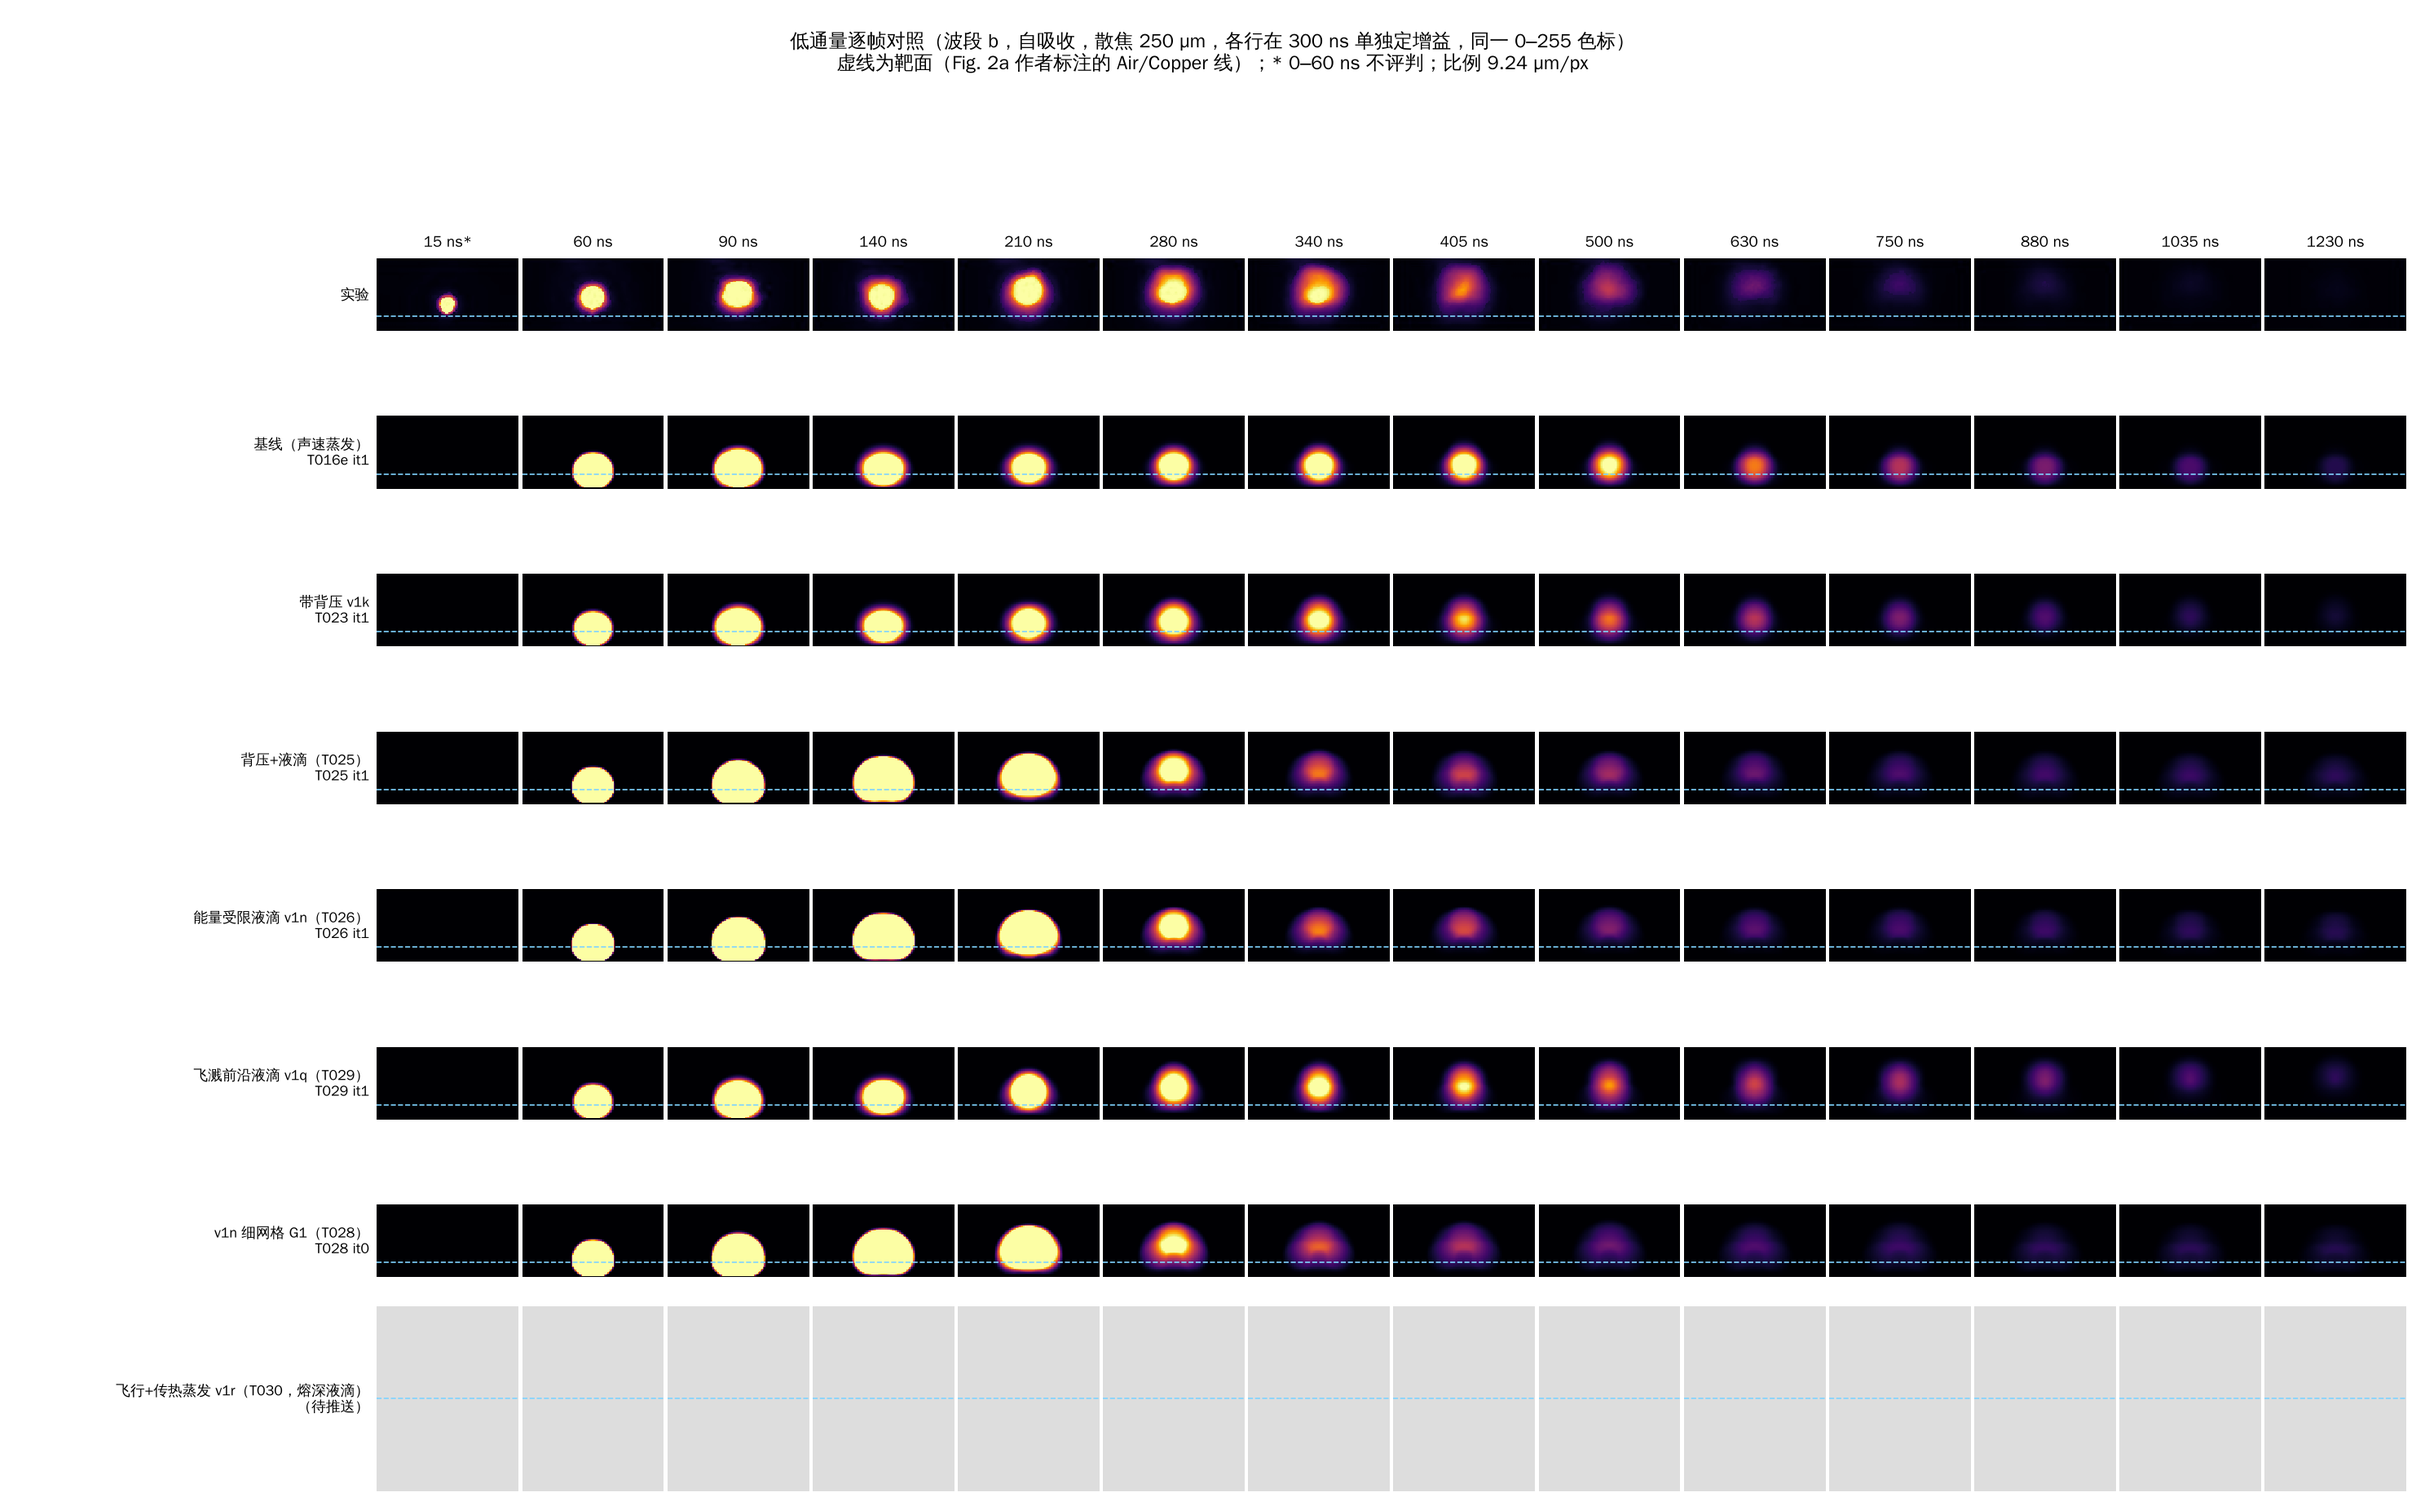
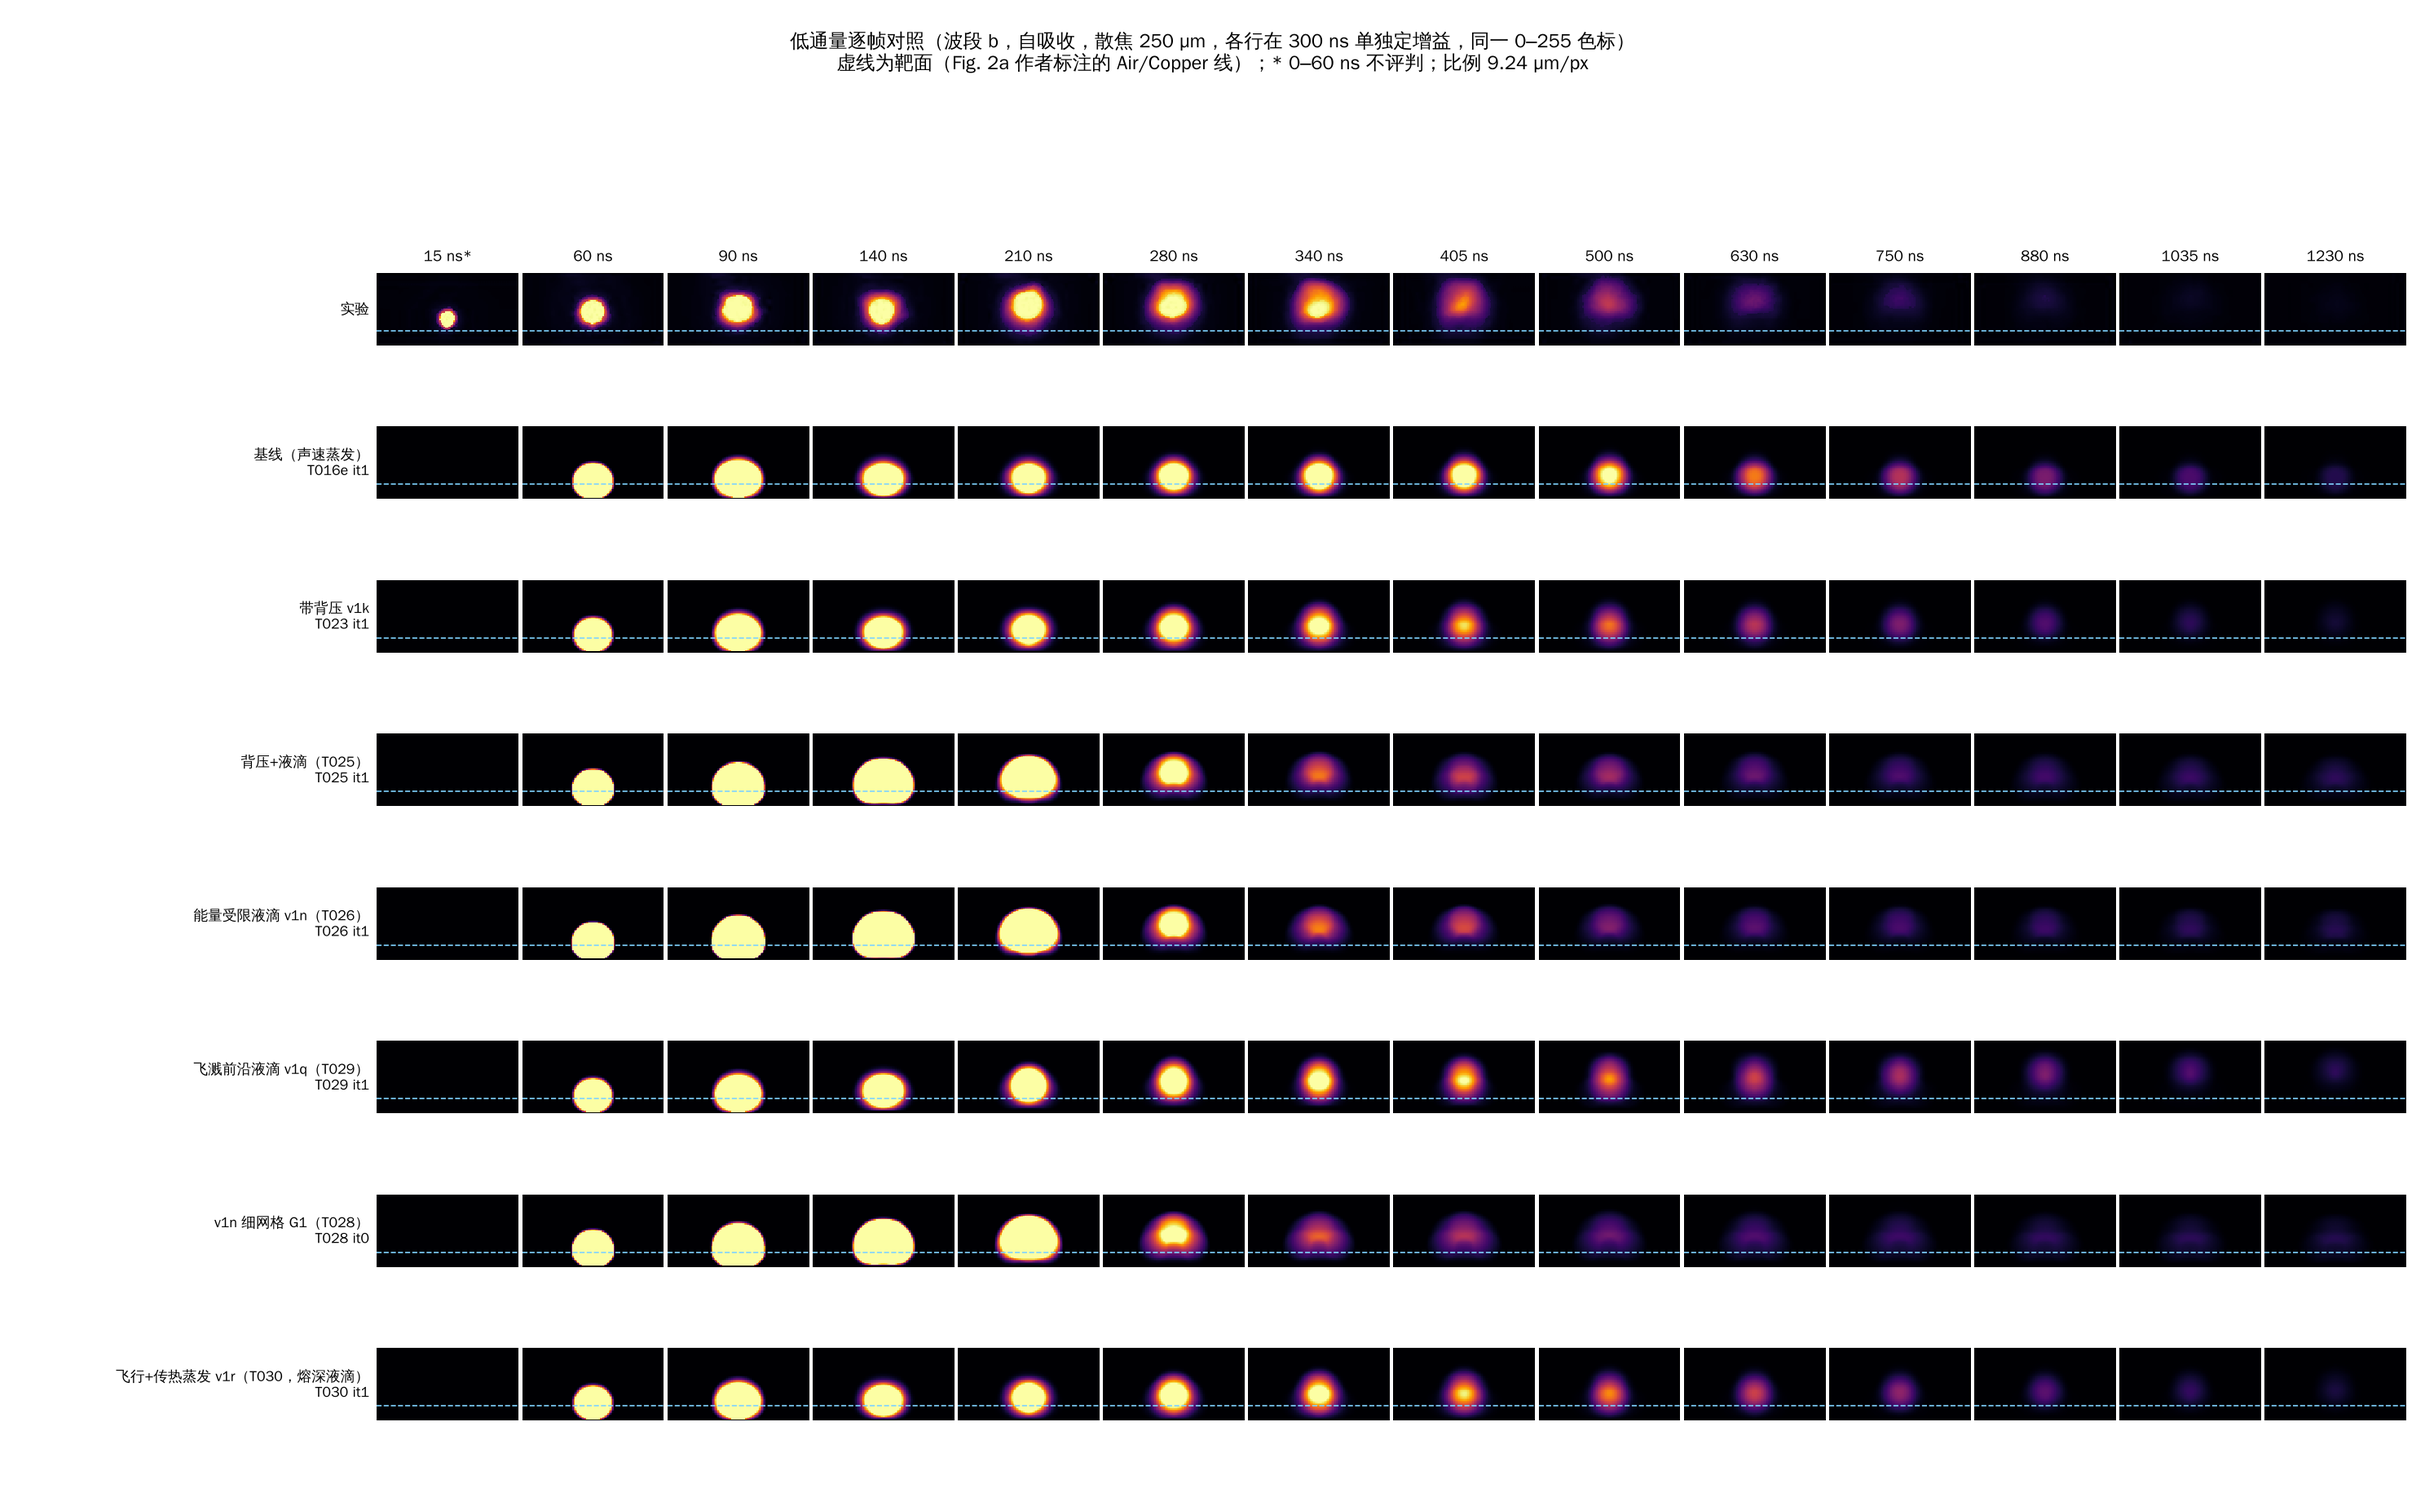
T030 low RP imaging reading, low figures with v1r row; T031 two productions
Claude-Session: https://claude.ai/code/session_01FS7WDGPKzwdDyXZyPwrs24

diff --git a/docs/STATE.md b/docs/STATE.md
@@ -591,3 +591,7 @@ Updated: 2026-11-15
 - high_rp it2: L500/L300 0.747, L730/L300 0.709; σz/σx 0.57; S1 70 µm, 0/20. Practically identical to T023 v1k (no droplets: 0.746 / 0.667 / 0.58), as PREREG v1r (b) predicted. T026 v1n: 0.302 / 0.156 / 0.64.
 - v1r summary (high): with physically sized droplets (melt depth) the droplet sink vanishes and the plume reverts to the no-droplet case. The v1n decay needs ≲ 30 nm ejecta, which neither the model nor the paper establishes. Figures redrawn with the v1r row.
 - 15:30 T030 high_a30n imaging (scan, not adoptable): L500/L300 0.608, L730/L300 0.310, σz/σx 0.89. T031 low_v1s production (v1n + recondensation, 1300 ns rc 0): recondensed 2.67 ng of 4.56 ng gross Cu input (59%); net M_Cu 1.89 ng; residual 0.010%. Imaging pending.
+
+### 2026-11-25 16:05 — T030 low_rp imaging; T031 high_v1s and low_v1rs production
+- low_rp it1 (v1r, reported): L715/L300 0.335, L1035/L300 0.132; σz/σx 0.70; S1 88 µm, 0/11. Same as T023 v1k (0.303 / 0.121 / 0.69). At both fluences v1r with melt-depth droplets equals the no-droplet case. Low figures redrawn with the v1r row.
+- T031 production: high_v1s recondensed 2.73 of 7.24 ng gross Cu (38%), residual 0.008%; low_v1rs recondensed 0.46 of 0.60 ng (77%), residual 0.008%. Imaging pending.
